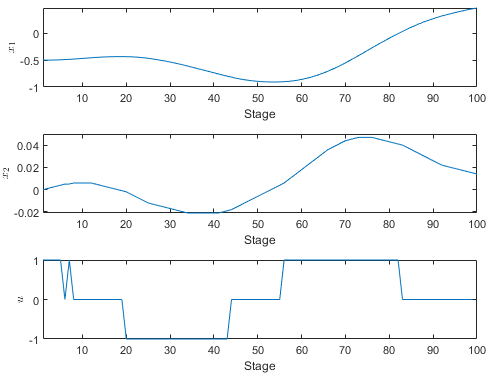
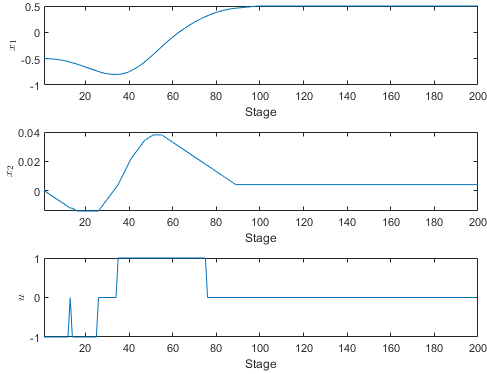
Added: Infeasible cost

diff --git a/dps_3X_1U.m b/dps_3X_1U.m
@@ -62,18 +62,22 @@ i = repmat((1:N)', 1,nU);
     repmat(U',N,1));
 
 % Bound the states within the minimum and maximum values
-x1_next = min(max(x1_next, ...
+x1_next_post_boundary = min(max(x1_next, ...
     repmat(lb(1),N,nU)), repmat(ub(1),N,nU));
-x2_next = min(max(x2_next, ...
+x2_next_post_boundary = min(max(x2_next, ...
     repmat(lb(2),N,nU)), repmat(ub(2),N,nU));
-x3_next = min(max(x3_next, ...
+x3_next_post_boundary = min(max(x3_next, ...
     repmat(lb(3),N,nU)), repmat(ub(3),N,nU));
 
-r = snap(x1_next, repmat(lb(1),N,nU), repmat(ub(1),N,nU), ...
+is_infeasible = (x1_next~=x1_next_post_boundary) .* ...
+    (x2_next~=x2_next_post_boundary) .*...
+    (x3_next~=x3_next_post_boundary);
+
+r = snap(x1_next_post_boundary, repmat(lb(1),N,nU), repmat(ub(1),N,nU), ...
     repmat(nX1-1,N,nU));
-c = snap(x2_next, repmat(lb(2),N,nU), repmat(ub(2),N,nU), ...
+c = snap(x2_next_post_boundary, repmat(lb(2),N,nU), repmat(ub(2),N,nU), ...
     repmat(nX2-1,N,nU));
-p = snap(x3_next, repmat(lb(3),N,nU), repmat(ub(3),N,nU), ...
+p = snap(x3_next_post_boundary, repmat(lb(3),N,nU), repmat(ub(3),N,nU), ...
     repmat(nX3-1,N,nU));
 
 ind = sub2ind([nX1 nX2 nX3], r, c, p);
@@ -85,7 +89,7 @@ for k = n_horizon-1 : -1 : 1
     ll = fprintf('%i',k);    
     
     J_ = stage_cost_fn(X1(r), X2(c), X3(p), repmat(U',N,1), k) + ...
-        reshape(J(ind,k+1),N,nU);
+        reshape(J(ind,k+1),N,nU) + is_infeasible .* 1e6;
     
     [J_min, J_min_idx] = min(J_, [], 2);
     

diff --git a/dps_2X_2U.m b/dps_2X_2U.m
@@ -67,14 +67,17 @@ j = repmat((1:nU) , nX, 1);
     U1(ru), U2(cu));
 
 % Bound the states within the minimum and maximum values
-x1_next = min(max(x1_next, ...
+x1_next_post_boundary = min(max(x1_next, ...
     repmat(lb(1),nX,nU)), repmat(ub(1),nX,nU));
-x2_next = min(max(x2_next, ...
+x2_next_post_boundary = min(max(x2_next, ...
     repmat(lb(2),nX,nU)), repmat(ub(2),nX,nU));
 
-rx = snap(x1_next, repmat(lb(1),nX,nU), repmat(ub(1),nX,nU), ...
+is_infeasible = (x1_next~=x1_next_post_boundary) .* ...
+(x2_next~=x2_next_post_boundary);
+
+rx = snap(x1_next_post_boundary, repmat(lb(1),nX,nU), repmat(ub(1),nX,nU), ...
     repmat(nX1-1,nX,nU));
-cx = snap(x2_next, repmat(lb(2),nX,nU), repmat(ub(2),nX,nU), ...
+cx = snap(x2_next_post_boundary, repmat(lb(2),nX,nU), repmat(ub(2),nX,nU), ...
     repmat(nX2-1,nX,nU));
 
 ind = sub2ind([nX1 nX2], rx, cx);
@@ -85,7 +88,7 @@ for k = n_horizon-1 : -1 : 1
     ll = fprintf('%i',k);
     
     J_ = stage_cost_fn(X1(rx), X2(cx), U1(ru), U2(cu), k) + ...
-        reshape(J(ind,k+1),nX,nU);
+        reshape(J(ind,k+1),nX,nU) + is_infeasible .* 1e6;
     
     [J_min, J_min_idx] = min(J_, [], 2);
     

diff --git a/dps_2X_1U.m b/dps_2X_1U.m
@@ -58,14 +58,17 @@ i = repmat((1:N)', 1,nU);
     repmat(U',N,1));
 
 % Bound the states within the minimum and maximum values
-x1_next = min(max(x1_next, ...
+x1_next_post_boundary = min(max(x1_next, ...
     repmat(lb(1),N,nU)), repmat(ub(1),N,nU));
-x2_next = min(max(x2_next, ...
+x2_next_post_boundary = min(max(x2_next, ...
     repmat(lb(2),N,nU)), repmat(ub(2),N,nU));
 
-r = snap(x1_next, repmat(lb(1),N,nU), repmat(ub(1),N,nU), ...
+is_infeasible = (x1_next~=x1_next_post_boundary) .* ...
+    (x2_next~=x2_next_post_boundary);
+
+r = snap(x1_next_post_boundary, repmat(lb(1),N,nU), repmat(ub(1),N,nU), ...
     repmat(nX1-1,N,nU));
-c = snap(x2_next, repmat(lb(2),N,nU), repmat(ub(2),N,nU), ...
+c = snap(x2_next_post_boundary, repmat(lb(2),N,nU), repmat(ub(2),N,nU), ...
     repmat(nX2-1,N,nU));
 
 ind = sub2ind([nX1 nX2], r, c);
@@ -76,7 +79,7 @@ for k = n_horizon-1 : -1 : 1
     ll = fprintf('%i',k);
     
     J_ = stage_cost_fn(X1(r), X2(c), repmat(U',N,1), k) + ...
-        reshape(J(ind,k+1),N,nU);
+        reshape(J(ind,k+1),N,nU) + is_infeasible .* 1e6;
     
     [J_min, J_min_idx] = min(J_, [], 2);
     

diff --git a/demo_07_mountain_car.m b/demo_07_mountain_car.m
@@ -12,7 +12,7 @@ V = ( -0.07 : 0.001 : 0.07)';
 U = [-1 0 1]';
 
 % Setup the horizon
-n_horizon = 100;
+n_horizon = 200;
 
 % Initiate the solver
 dps = dps_2X_1U(P, V, U, n_horizon, @state_update_fn, @stage_cost_fn, ...
@@ -39,7 +39,7 @@ end
 
 %%
 function J = stage_cost_fn(x1, x2, u, k)
-J = u.^2;
+J = u.^2 + (x1-0.5).^2;
 end
 
 %%
@@ -76,7 +76,8 @@ for k = 1 : dps.n_horizon
     % Plug the XStar to the equation of the mountain
     set(car, 'YData', sin(3*dps.x1_star(k))); 
     
-    htext1.String = ['Stage-', num2str(k), ', x = ', num2str(dps.x1_star(k)),', v = ', num2str(dps.x2_star(k))] ;
+    htext1.String = ['Stage-', num2str(k), ', x = ', ...
+        num2str(dps.x1_star(k)),', v = ', num2str(dps.x2_star(k))] ;
     
     if k < dps.n_horizon % input is one-data-point shorter
         htext2.String = ['u = ', num2str(dps.u_star(k))];
